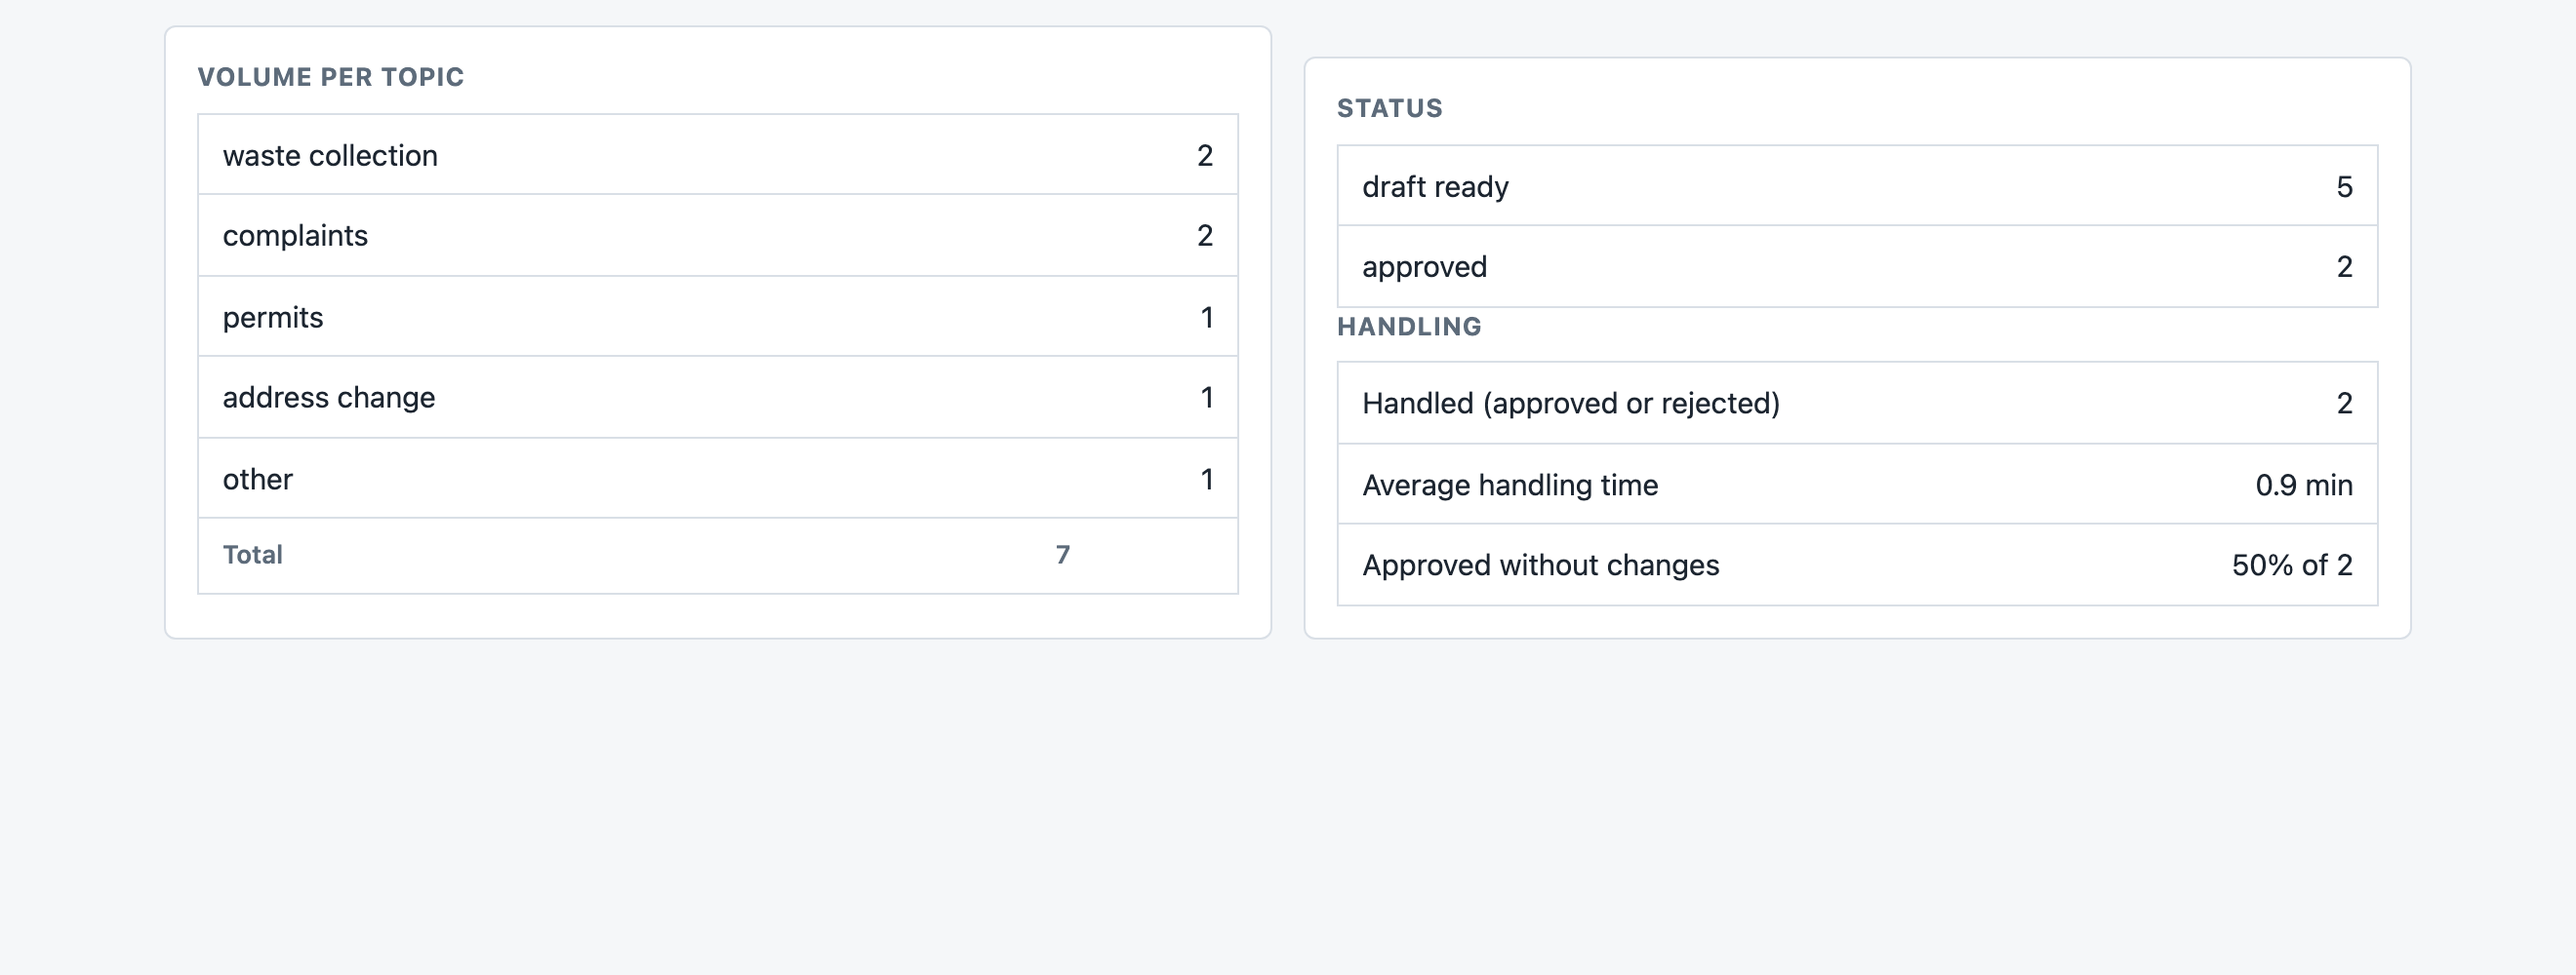
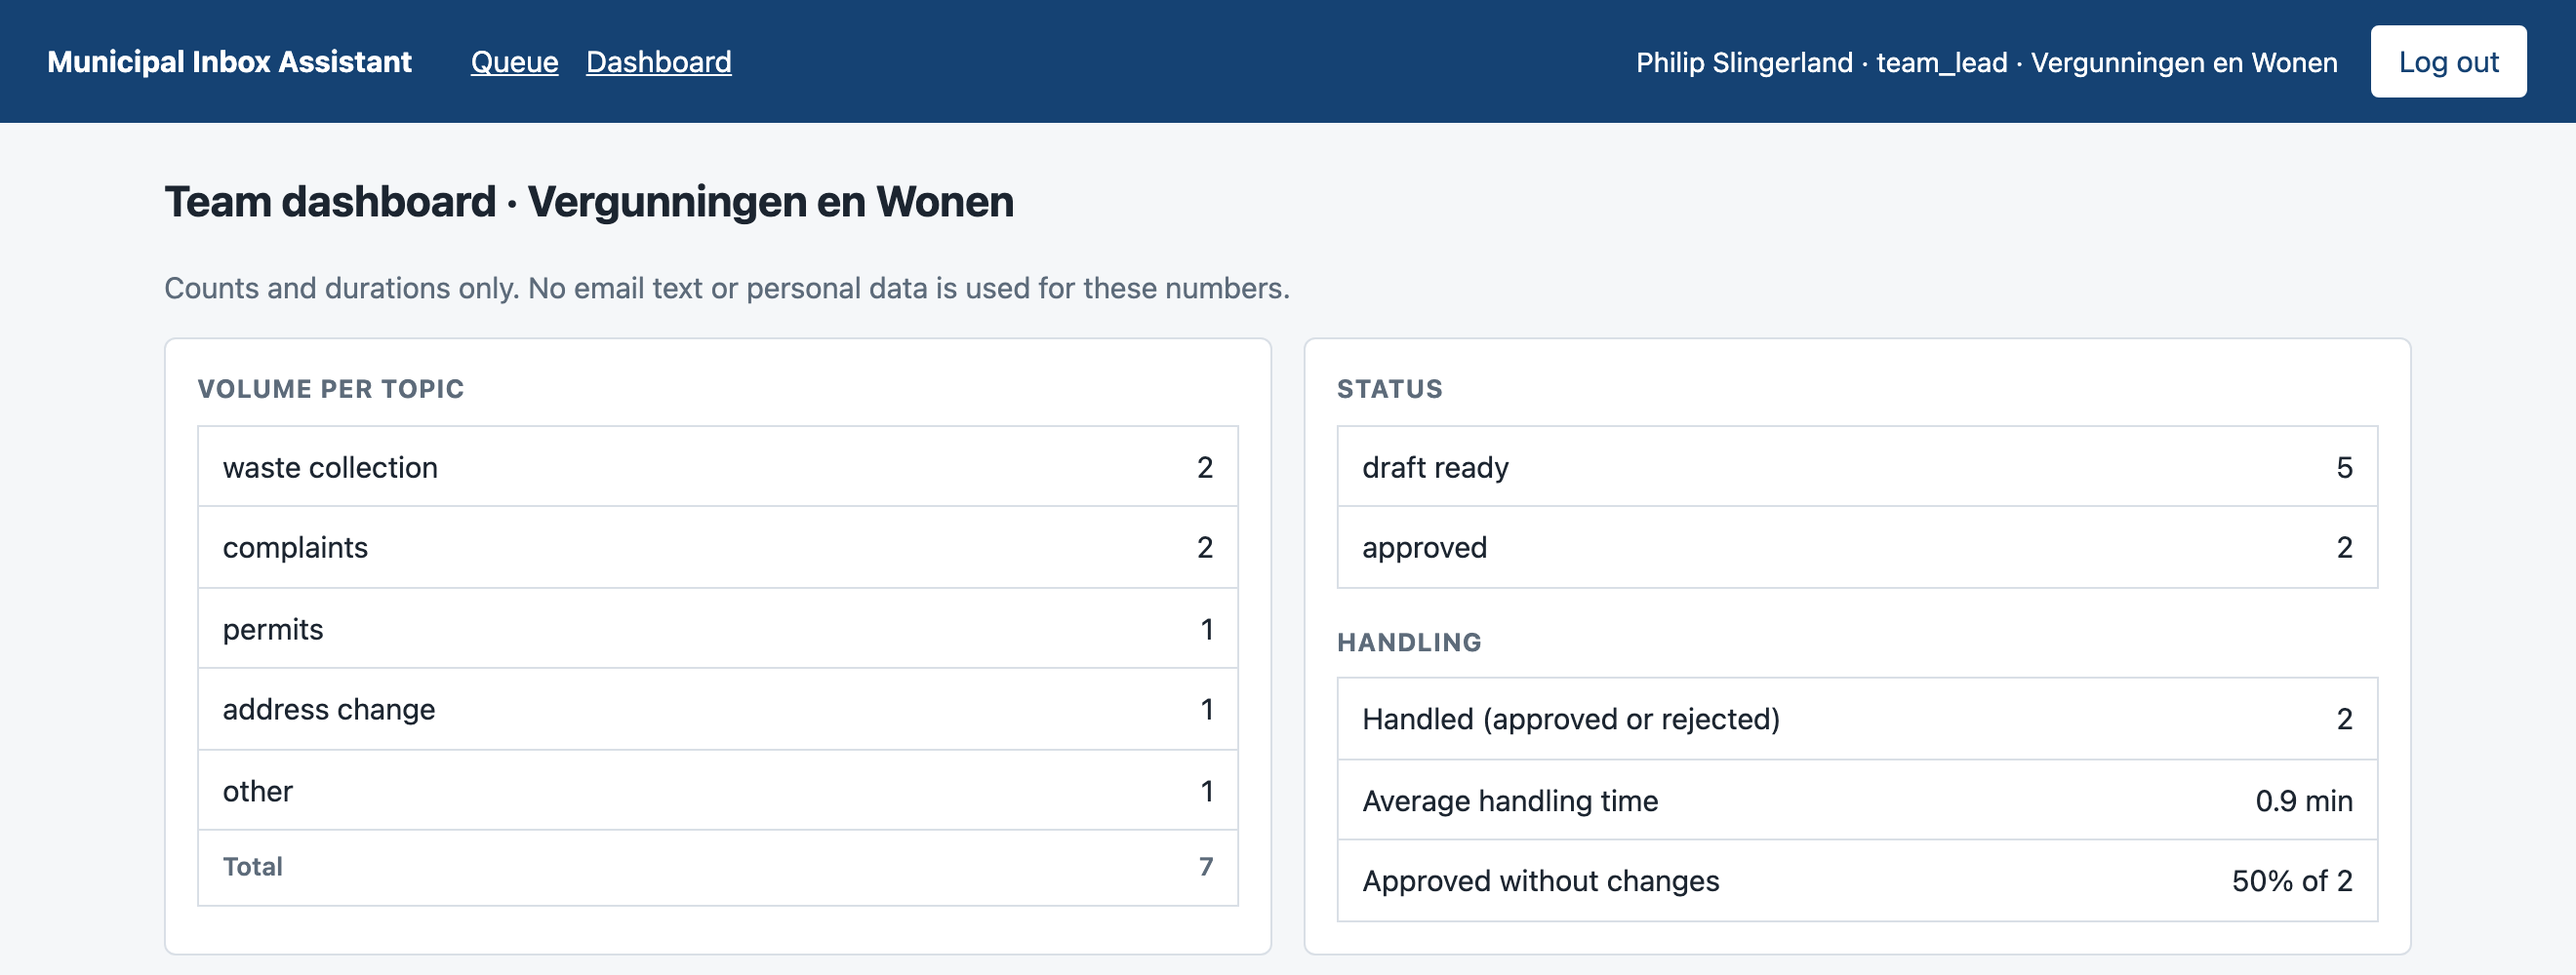
adjustments

diff --git a/app/web/templates/base.html b/app/web/templates/base.html
@@ -36,7 +36,10 @@
     form { display: inline; }
     header nav a { margin-left: 14px; }
     select, input { font: inherit; padding: 5px 8px; }
-    table.numbers td:last-child { text-align: right; }
+    table.numbers td:last-child, table.numbers th:last-child { text-align: right; }
+    table + h2 { margin-top: 18px; }
+    /* Panels side by side start at the same height; the stacking margin is for panels below each other. */
+    .cols > .panel + .panel { margin-top: 0; }
     form.block { display: block; margin: 8px 0; }
     textarea { width: 100%; box-sizing: border-box; font: inherit; padding: 8px; }
     label { margin-right: 10px; }
